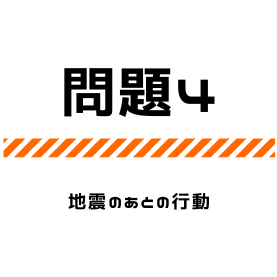
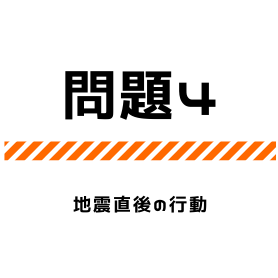
微調整

Changed region(s): [[0.231, 0.231, 0.7798, 0.4332], [0.0, 0.491, 1.0, 0.6065], [0.231, 0.6931, 0.7798, 0.7798]]

diff --git a/static/mon4.html b/static/mon4.html
@@ -8,7 +8,7 @@
     <script type="module" src="main.js">alert("問題4に挑戦です")</script> 
     <h1 style="text-align:center"> 防災のおべんきょうべや[問題４]</h1>
     <div class="ansimg" style="text-align:center"><img src="ans4.png" alt="問題１"></div>
-    <div class="mon"><h1 style="text-align:center">Q_4　地震の後の行動</h1></div>
+    <div class="mon"><h1 style="text-align:center">Q_4　地震直後の行動</h1></div>
     <h2 style="text-align:center">ゆれがおさまったら,安心してよい。</h2>
     <form method="GET" action="/api/answer">
       <div class="radio" style="text-align:center">
